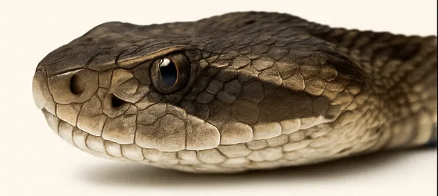
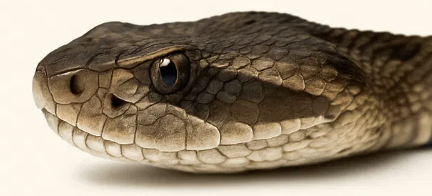
fix: remove artefato de borda escura da foto e adiciona esmaecimento profissional
- Recorta 6px extras da borda direita (linha preta de compressão/bezel residual)
- Aplica radial-gradient mask sutil (closest-side, 90%->100%) para a foto se fundir naturalmente com o fundo, sem bordas retangulares duras
- Cabeça da cobra permanece inteiramente visível, só os cantos esmaecem

diff --git a/src/index.css b/src/index.css
@@ -372,17 +372,19 @@ textarea.input { resize: vertical; min-height: 5rem }
 .hero-wave { display: block; width: 100%; height: 56px; margin-bottom: -1px }
 .hero-wave path { fill: var(--fundo) }
 .hero-photo-wrap {
-  margin-top: -28px;
-  padding: 0;
+  margin-top: -24px;
+  padding: 0 1.2rem;
   display: flex; justify-content: center;
 }
 .hero-photo {
-  width: 92%;
-  max-width: 420px;
+  width: 100%;
+  max-width: 460px;
   height: auto;
   display: block;
   border-radius: 0;
   background: transparent;
+  -webkit-mask-image: radial-gradient(ellipse closest-side at center, #000 90%, transparent 100%);
+  mask-image: radial-gradient(ellipse closest-side at center, #000 90%, transparent 100%);
 }
 .hero-body { padding: 0.5rem 1.4rem 2rem; flex: 1 }
 .hero-body h2 {
